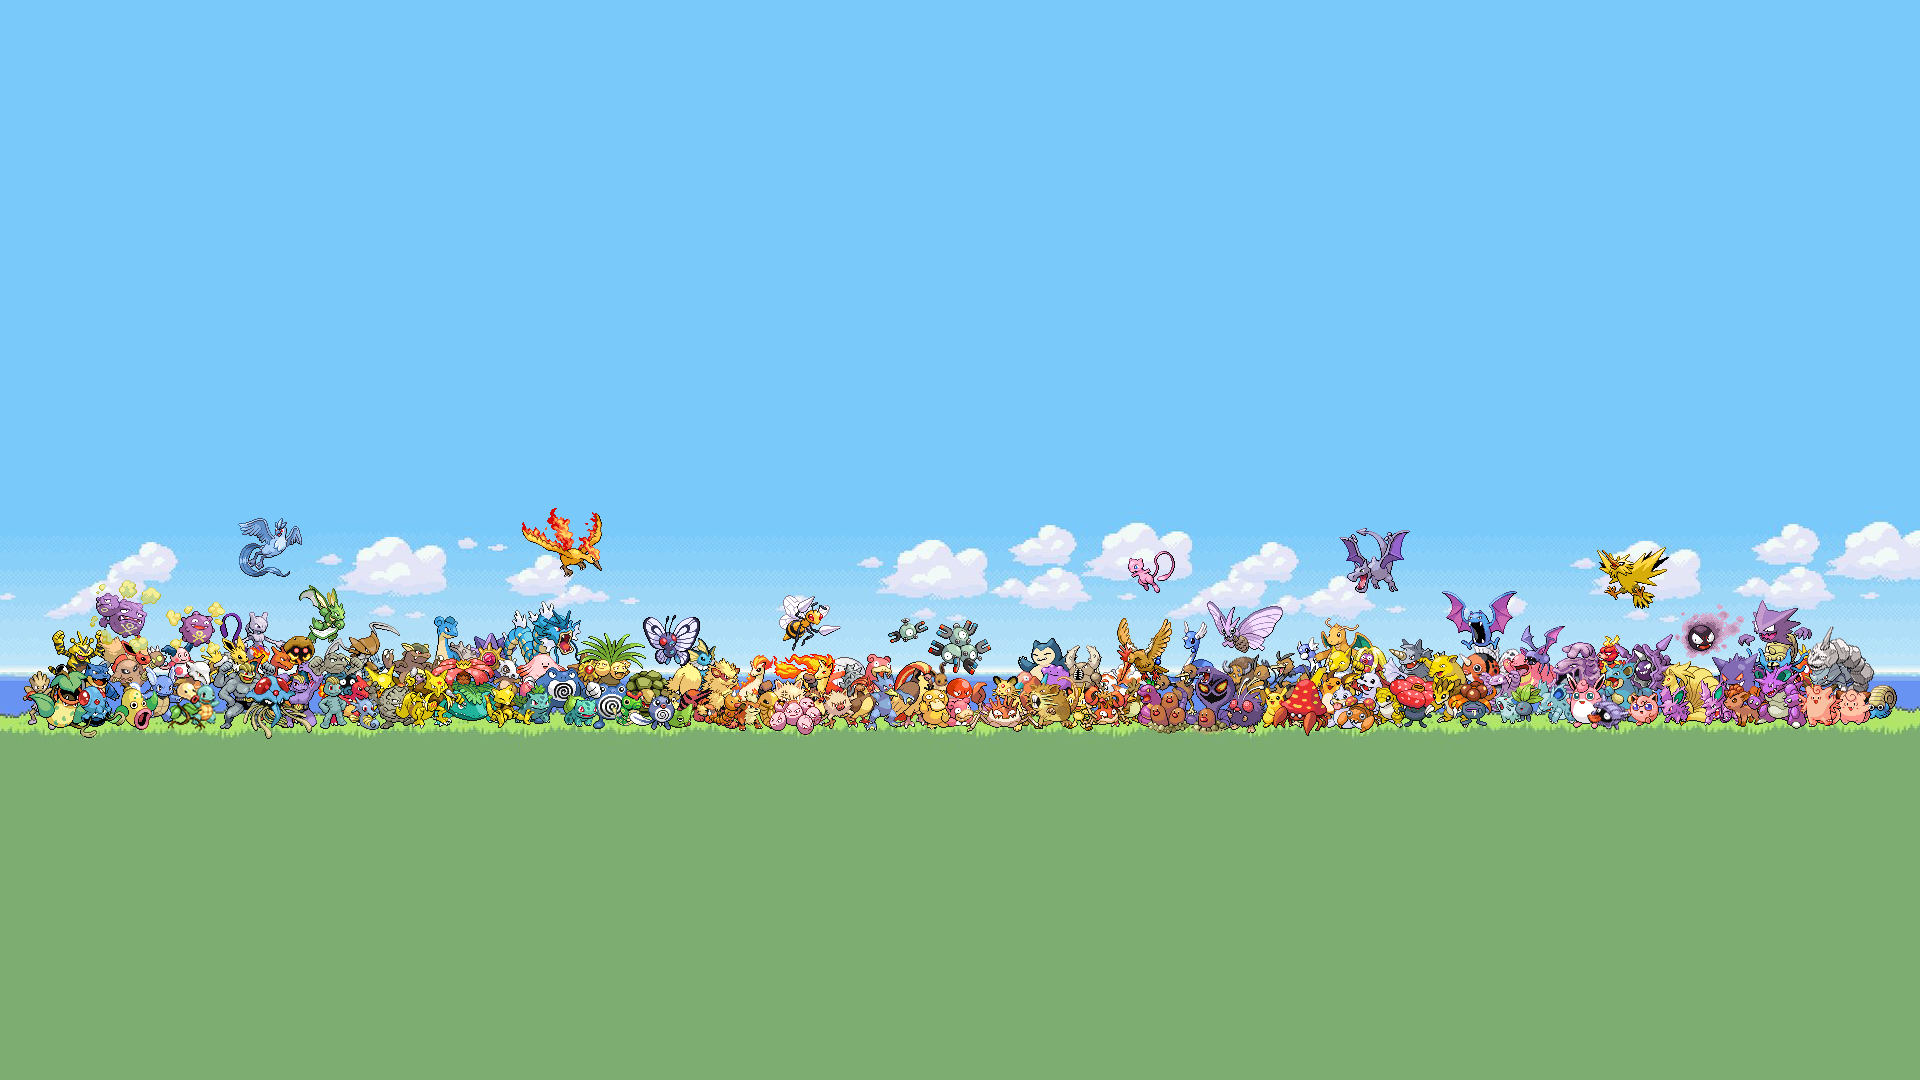
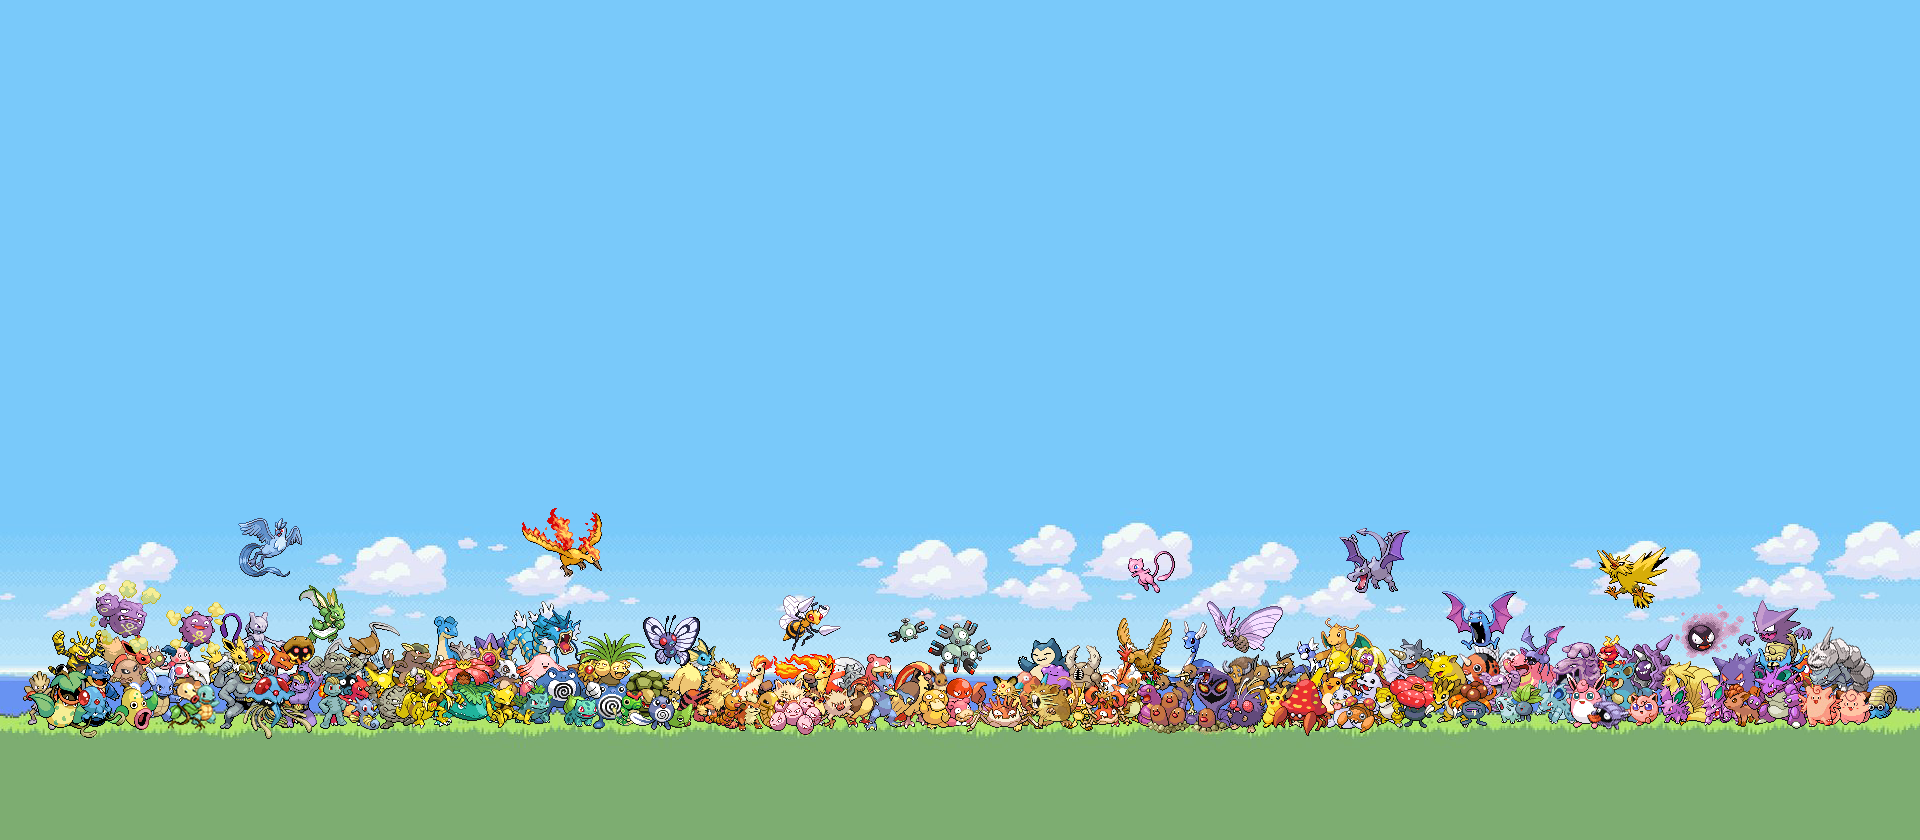
matching image sorted

diff --git a/script.js b/script.js
@@ -2,49 +2,58 @@ const pokeImage = document.getElementById("poke-image");
 const pokeName = document.getElementById("name");
 const button = document.getElementById("reveal");
 
-fetch("https://pokeapi.co/api/v2/pokemon/")
+/*fetch("https://pokeapi.co/api/v2/pokemon/")
     .then((response) => response.json())
     .then((inf) => {
         //console.log(inf);
         DisplayData(inf);
-});
+});*/
 
 //for update => when questionmark clicked => 1.reveal name 2. 1sec after show image of pokemon
 
-//create random number for user; number will be used to return a pokemon name and image
-const i = Math.floor(Math.random() * 20);
-console.log(i);
 
-const DisplayData = (inf) => {
-    pokeName.textContent = inf.results[i].name;     
-}
 
-//////make sure to retireve the updated name not the default ....!!!!!!!
-let newName = pokeName; 
-console.log(newName);
-let nameValue = newName.innerHTML;
-console.log(nameValue);
-
-fetch(`https://pokeapi.co/api/v2/pokemon/${newName}/`)
+/*fetch(`https://pokeapi.co/api/v2/pokemon/${pokeName}/`)
     .then((response) => response.json())
     .then((pic) => {
         DisplayImage(pic);
-});
+});*/
 
-//retrieve image from sprites
-const DisplayImage = (pic) => {
-    console.log(pic);
-    pokeImage.src = pic.sprites.front_shiny; 
-    
-}
 
 //2. match image with name
 //need to change questionamark url to pokemon specific url
 button.addEventListener("click", ()=>{
     if (button.innerHTML == "Reveal") {
         button.innerHTML = "Another";
+    }
+    //get the pokemon API
+    fetch("https://pokeapi.co/api/v2/pokemon/")
+    .then((response) => response.json())
+    .then((inf) => {
+        //console.log(inf);
+        DisplayData(inf);
+    });
 
-        //DisplayData(inf);
+    //GET THE RANDOM NUMBER TO GENERATE DATA
+    const i = Math.floor(Math.random() * 20);
+    
+    //TO UPDATE NAME AREA
+    const DisplayData = (inf) => {
+        pokeName.innerText = inf.results[i].name;     
+        console.log(pokeName.textContent);
+    }   
+    
+    //get the Pokemon image
+    fetch(`https://pokeapi.co/api/v2/pokemon/${i}/`)
+    .then((response) => response.json())
+    .then((pic) => {
+        DisplayImage(pic);
+    });
+
+    //retrieve image from sprites
+    const DisplayImage = (pic) => {
+        //console.log(pic);
+        pokeImage.src = pic.sprites.front_shiny; 
     }
 
 });

diff --git a/style.css b/style.css
@@ -5,20 +5,25 @@ html{
 
 body{
     margin:0;
+    
     height:100vh;
     display: flex;
     flex-direction: column;
-    justify-content: space-evenly;
+    /*justify-content: space-evenly;*/
     align-items: center;
     align-content: center;
     
-    background: #ffffff url("https://www.pixelstalk.net/wp-content/uploads/2016/09/All-Pokemon-Desktop-Background.png") no-repeat center;
+    background: #ffffff url("./assets/background.png") no-repeat center;
     background-size: cover;
 }
 
+#question{
+    margin:60px 0 ;
+}
 .wrapper{
+    
     display: flex;
-    height:50vh;
+    height:40vh;
     width: 40vh;;
     flex-direction: column;
     align-items: center;
@@ -31,5 +36,5 @@ body{
 
 #poke-image{
     visibility: visible;
-    width:40%;
+    width:20vh;
 }

diff --git a/index.html b/index.html
@@ -3,7 +3,7 @@
 <head>
     <meta charset="UTF-8">
     <meta name="viewport" content="width=device-width, initial-scale=1.0">
-    <title>Document</title>
+    <title>Pokemon Finder</title>
     <link rel="stylesheet" href="./style.css">
 </head>
 <body>
@@ -13,7 +13,7 @@
          
     <div class="wrapper">
         <h2>Your Pokemon is</h2>
-        <h2 id="name">...</h2>
+        <h2 id="name"> </h2>
         <img id="poke-image" src="./assets/question-mark.png">
         <div class="roll-button">
             <button id="reveal">Reveal</button>
